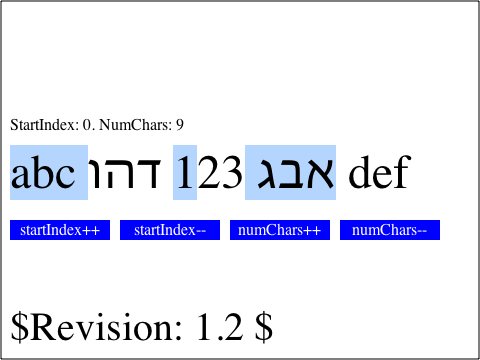
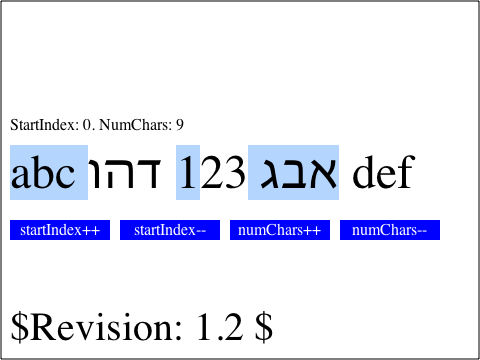
Change ENABLE(FONT_FAST_PATH) to USE(FONT_FAST_PATH) and revert pixel test results back to the state as before r39254.
https://bugs.webkit.org/show_bug.cgi?id=22824

git-svn-id: https://svn.webkit.org/repository/webkit/trunk@39277 268f45cc-cd09-0410-ab3c-d52691b4dbfc

Changed region(s): [[0.3438, 0.3972, 0.875, 0.55]]

diff --git a/WebCore/platform/graphics/Font.cpp b/WebCore/platform/graphics/Font.cpp
@@ -262,7 +262,7 @@ float Font::floatWidth(const TextRun& run, int extraCharsAvailable, int& charsCo
     charsConsumed = run.length();
     glyphName = "";
 
-#if ENABLE(FONT_FAST_PATH)
+#if USE(FONT_FAST_PATH)
     if (canUseGlyphCache(run))
         return floatWidthForSimpleText(run, 0);
 #endif
